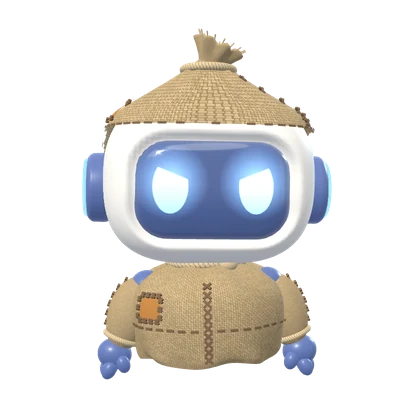
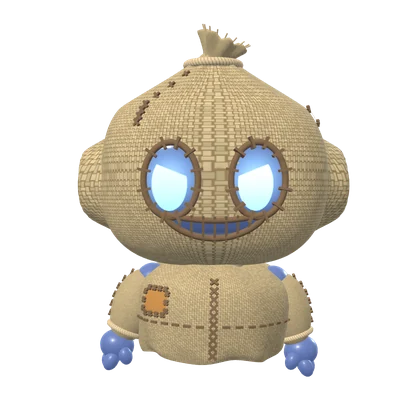
Halloween: Molí ahora es un muñeco de costal entero (capucha que cubre cabeza, cara y audífonos, ojos que brillan por huecos cosidos, boca cosida); dibujos regenerados; telarañas se mecen más con los ventiladores prendidos
Claude-Session: https://claude.ai/code/session_01NztUai9PRWWNGXcHDoXrVx

Changed region(s): [[0.1857, 0.0619, 0.8357, 0.9286]]

diff --git a/moli3d.js b/moli3d.js
@@ -131,8 +131,8 @@ function crearMoli(THREE, opt = {}) {
   const sp = (v, p) => Math.sign(v) * Math.pow(Math.abs(v), p);
   const sdRR = (x, y) => { const qx = Math.abs(x) - VI.bx + VI.r, qy = Math.abs(y - VI.y) - VI.by + VI.r; return Math.hypot(Math.max(qx, 0), Math.max(qy, 0)) + Math.min(Math.max(qx, qy), 0) - VI.r; };
   const HW = 96, HH = 72;                                             // resolución del casco (borde del visor bien liso)
-  const helmet = () => {
-    const g = new THREE.SphereGeometry(1, HW, HH); g.rotateY(-Math.PI / 2);      // la costura queda atrás
+  const helmet = (ws = HW, hs = HH) => {
+    const g = new THREE.SphereGeometry(1, ws, hs); g.rotateY(-Math.PI / 2);      // la costura queda atrás
     const q = g.attributes.position;
     for (let i = 0; i < q.count; i++) { const x = q.getX(i), y = q.getY(i), z = q.getZ(i), yy = sp(y, 0.7), k = 1 - 0.13 * Math.max(0, yy) ** 2 - 0.04 * Math.max(0, -yy) ** 2;
       q.setXYZ(i, sp(x, 0.6) * k * HS[0], yy * HS[1], sp(z, 0.62) * k * HS[2]); }
@@ -214,7 +214,7 @@ function crearMoli(THREE, opt = {}) {
       g.fillStyle = '#5c4222'; g.fillRect(0, 0, w, h);
       for (let y = 0; y < h; y += 8) for (let x = 0; x < w; x += 8) {
         const arriba = ((x + y) / 8) % 2, l = 0.8 + Math.random() * 0.34;
-        g.fillStyle = `rgb(${178 * l | 0},${140 * l | 0},${86 * l | 0})`;
+        g.fillStyle = `rgb(${176 * l | 0},${148 * l | 0},${92 * l | 0})`;
         if (arriba) g.fillRect(x, y + 1, 8, 5); else g.fillRect(x + 1, y, 5, 8);
       }
       for (let k = 0; k < 600; k++) { g.fillStyle = Math.random() < 0.5 ? 'rgba(255,236,196,.3)' : 'rgba(60,36,12,.3)'; g.fillRect(Math.random() * w, Math.random() * h, 1 + Math.random() * 4, 1); }
@@ -273,27 +273,45 @@ function crearMoli(THREE, opt = {}) {
       for (let y = -0.27; y <= 0.0; y += 0.054) cruz(A.sh, V(A.sx * (rb((y + 0.39) / 0.44) + 0.004) + 0.008 * A.sx, y, 0), V(0, 1, 0), V(A.sx, 0, 0), 0.04);
       part(new THREE.TorusGeometry(rb((-0.325 + 0.39) / 0.44) + 0.006, 0.017, 8, 36), SOGA, A.sh, [0.008 * A.sx, -0.325, 0], [Math.PI / 2, 0, 0]);
     });
-    // ---- gorro de costal: el casco forrado de yute, fruncido arriba y amarrado con soga (la punta se dobla) ----
-    const HY = z => 0.25 - 0.22 * sstep(0.0, -0.42, z);              // borde: encima del visor adelante, más abajo atrás (las orejas quedan libres)
-    const def = (x, y, z) => { const k = sstep(0.33, 0.5, y), th = Math.atan2(x, z), f = 1.065 * (1 - 0.84 * k) * (1 + 0.1 * k * Math.sin(th * 11)); return V(x * f, y * 1.065 + 0.2 * k, z * f); };
-    const gorro = helmet(); let sr = 0, sy = 0, sn = 0;
-    { const q = gorro.attributes.position, keep = new Uint8Array(q.count);
-      for (let i = 0; i < q.count; i++) { const x = q.getX(i), y = q.getY(i), z = q.getZ(i), p = def(x, y, z); keep[i] = y > HY(z) ? 1 : 0;
+    // ---- capucha de costal: toda la cabeza (la cara y los audífonos también) forrada de yute, fruncida arriba y amarrada con
+    //      soga; huecos cosidos para los ojitos (se siguen viendo sus expresiones), boca cosida y una costura en la frente ----
+    const OJ = [-1, 1].map(sx => ({ x: 0.225 * sx, y: VI.y + 0.035, rx: 0.14, ry: 0.195 }));
+    const BW = 0.26, bocaA = x => -0.222 - 0.035 * (1 - (x / BW) ** 2), bocaB = x => -0.222 - 0.13 * Math.pow(Math.max(0, 1 - (x / BW) ** 2), 0.7);   // labio de arriba y de abajo
+    const hueco = (x, y, z) => z > 0.2 && (OJ.some(o => ((x - o.x) / o.rx) ** 2 + ((y - o.y) / o.ry) ** 2 < 1) || (Math.abs(x) < BW && y < bocaA(x) && y > bocaB(x)));
+    const defH = (x, y, z) => {                                         // del casco a la capucha: más grande, un bulto en cada audífono y fruncida arriba
+      const k = sstep(0.33, 0.5, y), th = Math.atan2(x, z), f = 1.065 * (1 - 0.84 * k) * (1 + 0.1 * k * Math.sin(th * 11) + 0.01 * Math.sin(th * 7 + y * 9));
+      const d = Math.hypot(y - VI.y - 0.02, z + 0.04), b = 0.13 * (1 - sstep(0.17, 0.29, d)) * sstep(0.25, 0.5, Math.abs(x));
+      return V(x * f + Math.sign(x) * b, y * 1.065 + 0.2 * k, z * f); };
+    const capucha = helmet(180, 132), frente = []; let sr = 0, sy = 0, sn = 0;
+    { const q = capucha.attributes.position;
+      for (let i = 0; i < q.count; i++) { const x = q.getX(i), y = q.getY(i), z = q.getZ(i), p = defH(x, y, z);
         if (y > 0.445 && y < 0.456) { sr += Math.hypot(p.x, p.z); sy += p.y; sn++; } q.setXYZ(i, p.x, p.y, p.z); }
-      const src = gorro.index.array, out = []; for (let i = 0; i < src.length; i += 3) if (keep[src[i]] && keep[src[i + 1]] && keep[src[i + 2]]) out.push(src[i], src[i + 1], src[i + 2]);
-      gorro.setIndex(out); }
-    part(soldar(gorro), SACO, head);
+      soldar(capucha); const n = capucha.attributes.normal;
+      for (let i = 0; i < q.count; i++) if (q.getZ(i) > 0.3) frente.push([q.getX(i), q.getY(i), q.getZ(i), n.getX(i), n.getY(i), n.getZ(i)]);
+      const src = capucha.index.array, out = [], c3 = (a, b, c, f) => (f(a) + f(b) + f(c)) / 3;
+      for (let i = 0; i < src.length; i += 3) { const a = src[i], b = src[i + 1], c = src[i + 2];
+        if (!hueco(c3(a, b, c, j => q.getX(j)), c3(a, b, c, j => q.getY(j)), c3(a, b, c, j => q.getZ(j)))) out.push(a, b, c); }
+      capucha.setIndex(out); }
+    part(capucha, SACO, head);
+    ears.forEach(e => { e.halo.visible = false; });                      // los audífonos quedan adentro de la capucha
+    const sobre = (x, y, off = 0.006) => { let f = frente[0], bd = 1e9;  // punto de la cara de la capucha (delante de x, y)
+      for (const v of frente) { const d = (v[0] - x) ** 2 + (v[1] - y) ** 2; if (d < bd) { bd = d; f = v; } }
+      const n = V(f[3], f[4], f[5]); return { p: V(x, y, f[2]).addScaledVector(n, off), n }; };
+    const ribete = pts => part(new THREE.TubeGeometry(new THREE.CatmullRomCurve3(pts.map(([x, y]) => sobre(x, y, 0.004).p), true), 96, 0.017, 6, true), HILO, head);
+    OJ.forEach(o => { const P = Array.from({ length: 48 }, (_, i) => { const a = i / 48 * Math.PI * 2; return [o.x + Math.cos(a) * o.rx, o.y + Math.sin(a) * o.ry]; }); ribete(P);
+      for (let i = 0; i < 12; i++) { const a = (i + 0.5) / 12 * Math.PI * 2, e = sobre(o.x + Math.cos(a) * o.rx, o.y + Math.sin(a) * o.ry, 0.012);   // puntadas alrededor del ojo
+        puntada(head, e.p, V(Math.cos(a) / o.rx, Math.sin(a) / o.ry, 0), e.n, 0.065); } });
+    ribete([...Array.from({ length: 25 }, (_, i) => { const x = BW * (2 * i / 24 - 1); return [x, bocaA(x)]; }), ...Array.from({ length: 23 }, (_, i) => { const x = BW * (1 - 2 * (i + 1) / 24); return [x, bocaB(x)]; })]);
+    [-0.18, -0.12, -0.06, 0, 0.06, 0.12, 0.18].forEach(x => { const a = sobre(x, bocaA(x) + 0.022, 0.012), b = sobre(x, bocaB(x) - 0.022, 0.012), m = sobre(x, (bocaA(x) + bocaB(x)) / 2, 0.012);   // boca cosida
+      puntada(head, m.p, b.p.clone().sub(a.p), m.n, a.p.distanceTo(b.p)); });
     const casco = (th, s) => { const c = Math.sqrt(Math.max(0, 1 - s * s)), yy = sp(s, 0.7), k = 1 - 0.13 * Math.max(0, yy) ** 2 - 0.04 * Math.max(0, -yy) ** 2;
       return V(sp(Math.sin(th) * c, 0.6) * k * HS[0], yy * HS[1], sp(Math.cos(th) * c, 0.62) * k * HS[2]); };
-    const borde = th => { let a = -0.3, b = 0.95; for (let i = 0; i < 24; i++) { const m = (a + b) / 2, p = casco(th, m); if (p.y > HY(p.z)) b = m; else a = m; } return b + 0.012; };
-    const enGorro = (th, s, off = 0.006) => { const p0 = casco(th, s), p = def(p0.x, p0.y, p0.z), n = V(p.x, p.y * 0.35, p.z).normalize(); return { p: p.addScaledVector(n, off), n }; };
-    for (let k = 0; k < 44; k++) { const th = k / 44 * Math.PI * 2, s = borde(th), a = enGorro(th, s), b = enGorro(th + 0.02, borde(th + 0.02));   // pasadas en el borde
-      puntada(head, a.p, b.p.clone().sub(a.p), a.n, 0.045); }
-    { const th = 0.95; for (let s = borde(th) + 0.06; s < 0.84; s += 0.07) { const a = enGorro(th, s, 0.008), b = enGorro(th, s + 0.02, 0.008); cruz(head, a.p, b.p.clone().sub(a.p), a.n, 0.05); } }   // costura de lado
-    { const th = -1.25, s0 = 0.55, a = enGorro(th, s0, 0.004), pg = new THREE.PlaneGeometry(0.15, 0.13, 6, 6), q = pg.attributes.position;   // parchecito naranja en el gorro
-      for (let i = 0; i < q.count; i++) { const e = enGorro(th + q.getX(i) / 0.52, s0 + q.getY(i) * 1.7, 0.009); q.setXYZ(i, e.p.x, e.p.y, e.p.z); }
+    const enCap = (th, s, off = 0.006) => { const p0 = casco(th, s), p = defH(p0.x, p0.y, p0.z), n = V(p.x, p.y * 0.35, p.z).normalize(); return { p: p.addScaledVector(n, off), n }; };
+    { const th = -0.55; for (let s = 0.36; s < 0.84; s += 0.07) { const a = enCap(th, s, 0.008), b = enCap(th, s + 0.02, 0.008); cruz(head, a.p, b.p.clone().sub(a.p), a.n, 0.05); } }   // costura en la frente
+    { const th = 1.35, s0 = 0.48, pg = new THREE.PlaneGeometry(0.15, 0.13, 6, 6), q = pg.attributes.position;   // parchecito naranja al costado
+      for (let i = 0; i < q.count; i++) { const e = enCap(th + q.getX(i) / 0.52, s0 + q.getY(i) * 1.7, 0.009); q.setXYZ(i, e.p.x, e.p.y, e.p.z); }
       pg.computeVertexNormals(); part(pg, PARCHE, head);
-      [[-1, -1], [1, -1], [-1, 1], [1, 1]].forEach(([i, j]) => { const e = enGorro(th + i * 0.06 / 0.52, s0 + j * 0.05 * 1.7, 0.013); cruz(head, e.p, V(0, 1, 0), e.n, 0.03); }); }
+      [[-1, -1], [1, -1], [-1, 1], [1, 1]].forEach(([i, j]) => { const e = enCap(th + i * 0.06 / 0.52, s0 + j * 0.05 * 1.7, 0.013); cruz(head, e.p, V(0, 1, 0), e.n, 0.03); }); }
     const ry = sy / Math.max(1, sn), rrg = sr / Math.max(1, sn) + 0.02;  // soga del gorro y la punta de tela que sale arriba
     part(new THREE.TorusGeometry(rrg, 0.024, 10, 40), SOGA, head, [0, ry, 0], [Math.PI / 2, 0, 0]);
     const punta = new THREE.Group(); punta.position.set(0, ry + 0.005, 0); punta.rotation.set(0.15, 0, -0.42); head.add(punta);

diff --git a/index.html b/index.html
@@ -184,7 +184,7 @@ if (GR7) document.title = 'Molí 2 · Aula de séptimo grado';
 <link rel="preconnect" href="https://fonts.googleapis.com"><link href="https://fonts.googleapis.com/css2?family=Patrick+Hand&family=Comfortaa:wght@700&display=swap" rel="stylesheet">
 <link rel="stylesheet" href="hojas.css?v=202610161340">
 <script src="https://cdnjs.cloudflare.com/ajax/libs/three.js/r128/three.min.js"></script>
-<script src="moli3d.js?v=202610192030"></script><script src="sincro.js?v=202610170330"></script><script src="guion.js?v=202610170500"></script><script src="datos.js?v=202610171300"></script><script src="docente.js?v=202610171300"></script>
+<script src="moli3d.js?v=202610192130"></script><script src="sincro.js?v=202610170330"></script><script src="guion.js?v=202610170500"></script><script src="datos.js?v=202610171300"></script><script src="docente.js?v=202610171300"></script>
 <script src="hojas.js?v=202610171300"></script><script src="hojas-docente.js?v=202610171300"></script><script src="diplomas.js?v=202610171300"></script><script src="fotocheck.js?v=202610171300"></script><script src="herramientas.js?v=202610171300"></script><script src="remoto.js?v=202610171300"></script><script src="escaner.js?v=202610171300"></script><script src="tarjetas.js?v=202610171300"></script>
 <style id="splashCss">
   /* ---- pantalla de carga (como la de Molí 1): MOLÍ en letras grandes y Molí 3D trayendo el número 2 ---- */
@@ -1257,7 +1257,7 @@ function halloween6B({ P, Wc, Dp, fy, rotU, svec, F6 }) {
   telarana(L(-0.6, TOP, 0.48), L(-1.6, TOP, 0.48), L(-1.1, RH - 0.48, 0));
   ANIM.push((t, dt) => { for (const W of webs) {
     W.w += (viento(W.wp) - W.w) * Math.min(1, dt * 1.5);
-    const a = 0.035 + 0.11 * W.w, p = W.g.attributes.position.array, b = W.base;
+    const a = 0.02 + 0.13 * W.w, p = W.g.attributes.position.array, b = W.base;   // sin ventiladores apenas se mece; con ellos, harto
     for (let i = 0, k = 0; i < W.bar.length; i++, k += 3) {
       const d = W.bar[i] * a * (Math.sin(t * 2.2 + W.ph + W.ux[i] * 1.8) + 0.45 * Math.sin(t * 5.3 + W.ph * 2 - W.ux[i] * 2.5) * W.w + 0.35 * Math.sin(t * 0.9 + W.ph));
       p[k] = b[k] + W.n.x * d; p[k + 1] = b[k + 1] + W.n.y * d - Math.abs(d) * 0.25; p[k + 2] = b[k + 2] + W.n.z * d; }

diff --git a/biblioteca.html b/biblioteca.html
@@ -160,7 +160,7 @@
 <div id="mGlobo" role="dialog" aria-label="Molí te ayuda a buscar"></div>
 <div id="libro"></div>
 <script src="https://cdnjs.cloudflare.com/ajax/libs/three.js/r128/three.min.js"></script>
-<script src="moli3d.js?v=202610192030"></script>
+<script src="moli3d.js?v=202610192130"></script>
 <script src="pdftrabajo.js?v=202610180100"></script>
 <script>
 (function () {
